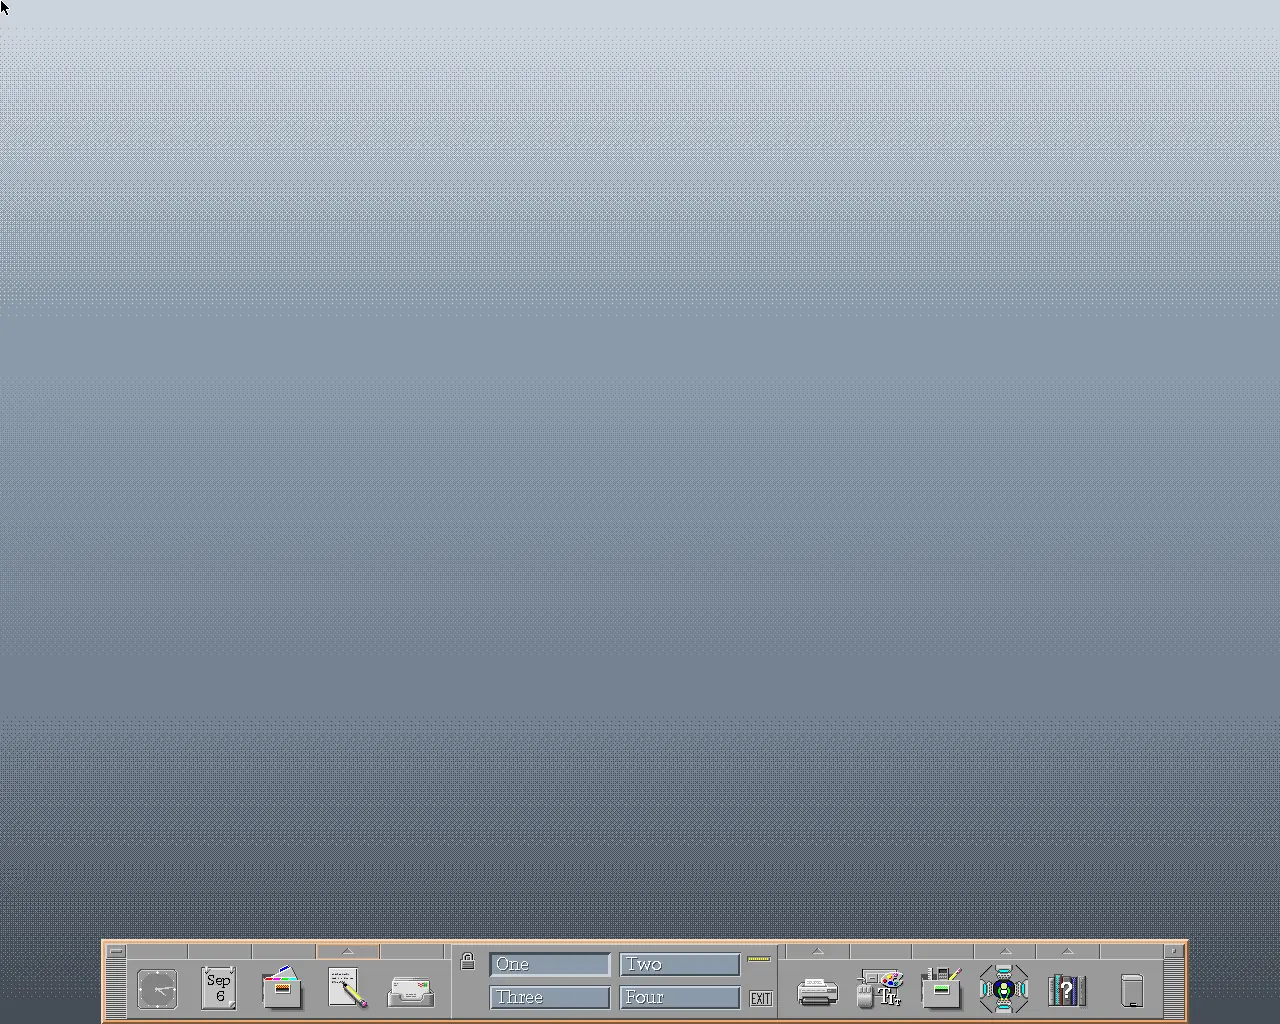
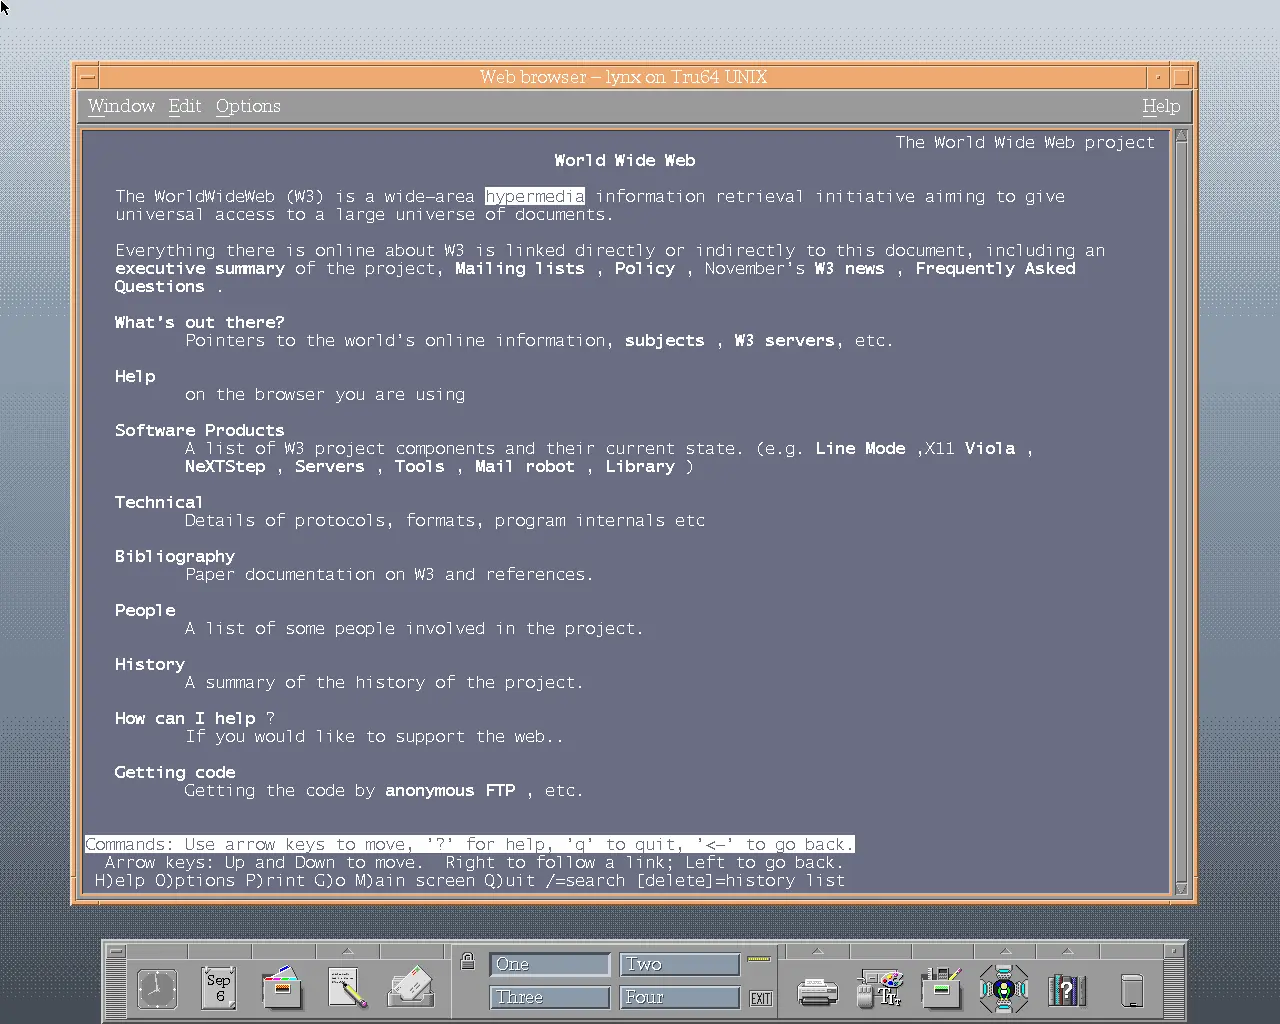
tru64: a networked exhibit — DEC 21143, an unprivileged user, and a browser on the web
The station now reaches the internet and shows a browser open on the first
website, fetched live through its own TCP/IP stack.

NETWORK. es40.cfg gains a dec21143 at pci0.4 (pcap on the host-only veth
tru64-h/g) — a DEVICE-SET change, so the checkpoint was re-baked from a cold
boot of the checkpoint disk with the NIC present. Guest: tu0, static
172.31.66.2/30, route and interface in rc.config + /etc/routes. Host: the
launcher creates the veth and NATs the /30 OUTBOUND ONLY; nothing bridges to
the LAN and no port is forwarded in. Three things had to be right that are not
obvious: /etc/svc.conf must say hosts=local,bind or the resolver never consults
DNS (nslookup works, ping <name> does not), /etc/resolv.conf needs a
domain/search line, and /etc/hosts must map the machine's own name or CDE fails
at session start with "The DT messaging system could not be started".

BROWSER. Lynx 2.8.9rel.1, built in the guest (configure under ksh — Tru64's
/bin/sh dies on modern autoconf; ~80 min total on emulated Alpha), installed
with its cfg and lss, run -nocolor because the colour style renders black on
black on this 8-plane visual. It runs as the unprivileged user in a dtterm, and
that window on http://info.cern.ch is what the checkpoint now restores: the
ten minutes of guest time it took to get there are paid once, at bake time.
The bundled Netscape 6 (/usr/opt/netscape6) is installed and starts but never
maps a window — as root or guest, with fonts and display access proven fine —
[…]

diff --git a/streamhost/guest-agents/tru64/tru64exec.py b/streamhost/guest-agents/tru64/tru64exec.py
@@ -105,14 +105,11 @@ class Session:
             pass
 
 
-def run_once(station_dir, cmd, timeout, tag):
-    """One login + one command.
-
-    Returns (rc, stdout, raw). rc None means the EXCHANGE failed — no sentinels
-    came back, i.e. the line was corrupted or the guest never answered — which
-    is the one case worth retrying on a fresh login."""
-    begin, end = f"BX{tag}", f"EX{tag}"
-
+def open_session(station_dir, timeout, tag):
+    """Connect, converge on a login, and hand back a Session at a silent ksh
+    prompt — or None. Callers that run many commands (a file push is one
+    `echo` per line) should open ONCE: a login per line is both slow and the
+    thing most likely to leave the getty in a state the next call trips over."""
     try:
         se = Session(f"{station_dir}/serial-exec.sock", timeout)
     except OSError as e:
@@ -120,7 +117,7 @@ def run_once(station_dir, cmd, timeout, tag):
             f"tru64exec: cannot reach {station_dir}/serial-exec.sock ({e}).\n"
             "The station must be running (pumps.py owns the line and serves this socket).\n"
         )
-        return 125, "", ""
+        return None
 
     # Converge on a FRESH login prompt. The line is shared and persistent: a
     # previous call that timed out (or a guest frozen mid-exchange) can leave
@@ -129,12 +126,25 @@ def run_once(station_dir, cmd, timeout, tag):
     # state we find back to "login:" — answer a stray Password:, log out of a
     # live shell — before touching the command.
     logged_in = False
+    probe = f"PB{tag}"
     for _ in range(6):
         thaw(station_dir)
         se.buf.clear()
         se.send("")
         se.read_until(rb"(?i)login:|password:|[#$] ?$", 8)
         tail = bytes(se.buf)[-200:]
+        if not tail.strip():
+            # SILENT line. Either nothing is listening, or — the state this
+            # client can create itself — a previous session died leaving a live
+            # shell with `stty -echo` and an empty PS1, which answers a bare
+            # newline with exactly nothing. Ask a question only a shell can
+            # answer before concluding the channel is dead.
+            se.buf.clear()
+            se.send(f"echo {probe}")
+            if se.read_until(probe.encode(), 8):
+                logged_in = True
+                break
+            continue
         if PASSWORD.search(tail):
             se.send("")  # empty password -> "Login incorrect" -> fresh login:
             continue
@@ -155,7 +165,7 @@ def run_once(station_dir, cmd, timeout, tag):
             "The guest may be frozen (idle auto-pause) or the getty on tty01 is gone.\n"
         )
         se.close()
-        return 125, "", ""
+        return None
 
     # root's login shell here is /bin/sh — Tru64's LEGACY Bourne shell, where
     # `$(...)` is not command substitution but a syntax error, so a caller's
@@ -181,6 +191,14 @@ def run_once(station_dir, cmd, timeout, tag):
     se.send(f"echo {sync}")
     se.read_until(sync.encode(), 20)
     se.buf.clear()
+    return se
+
+
+def run_command(se, station_dir, cmd, timeout, tag):
+    """Run one command in an open session. Returns (rc, stdout, raw); rc None
+    means no sentinels came back — the exchange failed, not the command."""
+    begin, end = f"BX{tag}", f"EX{tag}"
+    se.buf.clear()
 
     # The command runs in a SUBSHELL: a bare `exit 3` (or a command that ends
     # with one) would otherwise kill the login before the closing sentinel is
@@ -195,12 +213,6 @@ def run_once(station_dir, cmd, timeout, tag):
         se.read_until(end_re, min(30.0, timeout))
 
     text = bytes(se.buf).replace(b"\r", b"").decode("latin1", "replace")
-    try:
-        se.send("exit")
-    except OSError:
-        pass
-    se.close()
-
     m = re.search(re.escape(begin) + r"\n(.*?)" + re.escape(end) + r"(\d+)", text, re.S)
     if not m:
         return None, "", text
@@ -227,7 +239,16 @@ def main():
     # is to start the exchange over rather than to guess what the line means.
     raw = ""
     for attempt in range(2):
-        rc, out, raw = run_once(station_dir, cmd, timeout, uuid.uuid4().hex[:12].upper())
+        tag = uuid.uuid4().hex[:12].upper()
+        se = open_session(station_dir, timeout, tag)
+        if se is None:
+            return 125
+        rc, out, raw = run_command(se, station_dir, cmd, timeout, tag)
+        try:
+            se.send("exit")
+        except OSError:
+            pass
+        se.close()
         if rc is not None:
             if out:
                 sys.stdout.write(out + "\n")

diff --git a/docs/guests/tru64.md b/docs/guests/tru64.md
@@ -81,6 +81,63 @@ save-and-exit. No fifo, no keyboard, no pixels.
   layout; `ctltest.py` only does letters, digits and a little punctuation.
 - Screenshots: `uibench/shmread.py <fb.shm> <out.png>`.
 
+## Network (2026-08-17)
+
+The device set gained a **`dec21143`** at `pci0.4` (pcap backend on the
+host-only veth `tru64-h`/`tru64-g`), which is a DEVICE-SET change: it orphans
+any checkpoint baked before it, so the checkpoint was re-baked from a cold boot
+of the checkpoint DISK with the NIC present.
+
+- Guest: `tu0`, static **172.31.66.2/30**, default route 172.31.66.1, set in
+  `/etc/rc.config` (`NETDEV_0`, `IFCONFIG_0`, `NUM_NETCONFIG`) and
+  `/etc/routes` so it survives a boot.
+- Host: `tru64-h` holds .1, and the launcher NATs the /30 outbound
+  (`iptables -t nat MASQUERADE`, `ip_forward=1`). **Outbound only** — nothing
+  bridges to the LAN, no port is forwarded in, and the guest is reachable from
+  nowhere but this box. A 2003 TCP/IP stack should not face inbound traffic.
+- Resolver: `/etc/resolv.conf` (1.1.1.1, 8.8.8.8) **plus** `hosts=local,bind`
+  in `/etc/svc.conf` — Tru64 will not consult DNS at all without that switch
+  entry, and `nslookup` succeeding while `ping <name>` says "unknown host" is
+  exactly that gap. The resolver also wants a `domain`/`search` line to work.
+- `/etc/hosts` must map the machine's own name (`172.31.66.2 tru64`), or CDE
+  comes up with "The DT messaging system could not be started": ToolTalk
+  resolves the hostname at session start, and an IP-configured machine whose
+  name does not resolve fails there rather than at boot.
+
+`/usr/local/bin/httpget <host> <path> [port]` and `httpfetch <host> <path>
+<out> [port]` are two small C clients compiled in the guest for exactly this
+work — the base install has no `wget`, `curl` or `ftp`-over-HTTP, so they are
+how a file gets in and how the network is proven without a browser. They are
+also how Lynx's source arrived: serve the tarball from labhost
+(`python3 -m http.server --bind 172.31.66.1`) and fetch it with `httpfetch`.
+
+## The browser (2026-08-17)
+
+**Lynx 2.8.9rel.1, built in the guest**, at `/usr/local/bin/lynx` with
+`/usr/local/etc/lynx.cfg` and `lynx.lss`. `su guest -c /usr/local/bin/webbrowser`
+opens it in a dtterm titled "Web browser - lynx on Tru64 UNIX"; that window,
+sitting on the first website, is the exhibit's baked scene.
+
+Build notes, because none of it is guessable:
+
+- `./configure` must run under **ksh** (`CONFIG_SHELL=/bin/ksh /bin/ksh
+  ./configure`): Tru64's `/bin/sh` is the legacy Bourne shell and dies on
+  modern autoconf with `syntax error at line 1297: '(' unexpected`.
+- Configure takes ~35 min and the build ~45 min on this emulated Alpha. Run
+  them detached with a log and poll — a `labctl exec` call that outlives its
+  timeout leaves the serial line mid-command.
+- Interactive Lynx needs `lynx.lss` present or it exits at once with "Lynx
+  file /usr/local/etc/lynx.lss is not available"; `-dump` does not, which is
+  why the first fetches worked and the first window did not.
+- Run it `-nocolor`. With the colour style on this 8-plane visual it renders
+  black on black — a window that looks broken but is working.
+
+**The bundled Netscape 6 does not work here.** `/usr/opt/netscape6` (a
+Tru64-native Mozilla, May 2002) is fully installed and starts — `mozilla-bin`
+runs, burns CPU for ten minutes and never maps a window, as root or as
+`guest`, with fonts and display access both proven fine (`xclock` maps
+instantly for the same user). It is left in place, unused.
+
 ## Screen: 1280x1024 (2026-08-17)
 
 The X server takes the mode on its command line, so the site copy of the
@@ -191,16 +248,36 @@ so the restored desktop never blanks. **The seed still has the CDE defaults**:
 a cold-boot fallback will blank and lock again — re-bake the seed from a
 checkpoint-restored, cleanly halted guest to close that.
 
-## The scene: a bare CDE desktop
+## The scene: a browser on the first website
 
-What visitors see is the finished desktop and nothing else — wallpaper and the
-front panel. The `dxconsole` "Console Log" window that used to open
-bottom-right (repeating `Can't find an OSF-BASE … PAK`) was closed before the
-checkpoint was baked 2026-08-17, so the restore no longer brings it back. It
-was never started from any `/usr/dt/config` or `/etc/dt/config` file — grep
-finds nothing — which is why closing it in the CHECKPOINT was the fix that
-worked; a cold boot from the seed still opens it. The PAK line itself is
-expected on a PAK-less base install and gates non-root logins only.
+The checkpoint is baked with the exhibit's scene already up: the CDE desktop,
+the front panel, and one window — Lynx showing
+`http://info.cern.ch/hypertext/WWW/TheProject.html`, the first website, fetched
+live through the guest's own TCP/IP stack. A visitor arrives at a browser that
+already works, and the arrow keys follow links.
+
+That is the whole point of baking a checkpoint rather than booting: the browser
+took ten minutes of guest time to reach that page the first time, and every
+visitor now gets it in three seconds.
+
+The `dxconsole` "Console Log" window (repeating `Can't find an OSF-BASE ... PAK`)
+was closed before baking, so the restore does not bring it back. A cold boot
+from the seed still opens it.
+
+## The unprivileged user, and the licence wall
+
+`guest` (uid 300, group `users`, `/home/guest`, no password) exists and is what
+the browser runs as: `su guest -c /usr/local/bin/webbrowser`. Nothing
+visitor-facing runs as root except the CDE session itself.
+
+**The session could not be moved to that user.** dtlogin auto-logs in `guest`
+and the login is refused with "Too many users logged on already. Try again
+later.", because this install has **no OSF-BASE PAK** (`lmf list full for
+OSF-BASE` -> "No entry in license database"); the licence gates non-root
+interactive logins, which is the same wall the console log complains about at
+every boot. `su` to the account works, which is why the browser can run as it.
+Registering a PAK, or starting the session by another route, is an operator
+decision and is not done here — `Dtlogin*autoLogin` is back to `root`.
 
 ## es40 savestates: this station's reset
 

diff --git a/registry/posters/tru64.md b/registry/posters/tru64.md
@@ -4,8 +4,8 @@ subtitle: 2003 · DEC's own UNIX on DEC's own 64-bit iron
 hero: /posters/tru64/desktop.webp
 images:
   - src: /posters/tru64/desktop.webp
-    alt: The Tru64 UNIX 5.1B desktop at 1280×1024 — the Common Desktop Environment's blue-grey stippled backdrop, empty, with the CDE front panel across the bottom: analogue clock, date calendar, file manager, text editor, mail, a four-square workspace switcher flanked by lock and exit controls, then printer, style manager, application manager, help and trash
-    caption: The Common Desktop Environment on DEC's own UNIX — the 5.1B desktop as it comes up, logged in and idle, drawn by Tru64's own X server on the emulated AlphaServer's S3 graphics.
+    alt: The Tru64 UNIX 5.1B desktop at 1280×1024 — a terminal window titled "Web browser – lynx on Tru64 UNIX" fills most of the Common Desktop Environment's blue-grey backdrop, showing the 1992 CERN page "World Wide Web" with its list of links (executive summary, Mailing lists, Policy, What's out there?, Software Products), and the CDE front panel runs along the bottom
+    caption: The first website, fetched live by a 2003 UNIX workstation — Lynx in a CDE terminal on Tru64 5.1B, over the machine's own TCP/IP stack.
 ---
 ## Origins
 
@@ -19,7 +19,9 @@ The AlphaServer ES40 emulated here is the natural home of this operating system 
 
 ## What you're looking at
 
-A finished Tru64 UNIX 5.1B system, logged in and sitting at its desktop: the Common Desktop Environment at 1280×1024, its front panel along the bottom edge — clock, calendar, file manager, text editor, mail, four workspaces, and the tools of a 2003 commercial UNIX workstation. This is CDE as the industry standardised it, the same desktop shipped by Sun, HP, IBM and DEC, here in DEC's own colours on DEC's own operating system.
+A finished Tru64 UNIX 5.1B system at its desktop, with a browser open on the web. The desktop is the Common Desktop Environment at 1280×1024 — CDE as the industry standardised it, the same environment shipped by Sun, HP, IBM and DEC, here in DEC's own colours on DEC's own operating system. The window on top is Lynx, the text browser that was how most UNIX workstations of this era read the web, showing the page CERN put online in 1992 and never took down.
+
+The page is not a recording. This machine has a DEC 21143 Ethernet controller, a real TCP/IP stack, and a route to the internet; it resolved the name and fetched the document itself. The arrow keys follow links, so the web this machine reaches is the live one — as much of it as still speaks plain HTTP to a browser from 1997.
 
 Nothing is staged. The installation you would otherwise be reading about really happened on this exhibit — all 115 software subsets onto an AdvFS file system — and what you see is that installed machine, brought back to this exact moment. Between visits it is frozen mid-instruction rather than shut down, so it resumes where it stood; and when it is reset it returns to this desktop in about three seconds, however the previous visitor left it.
 
